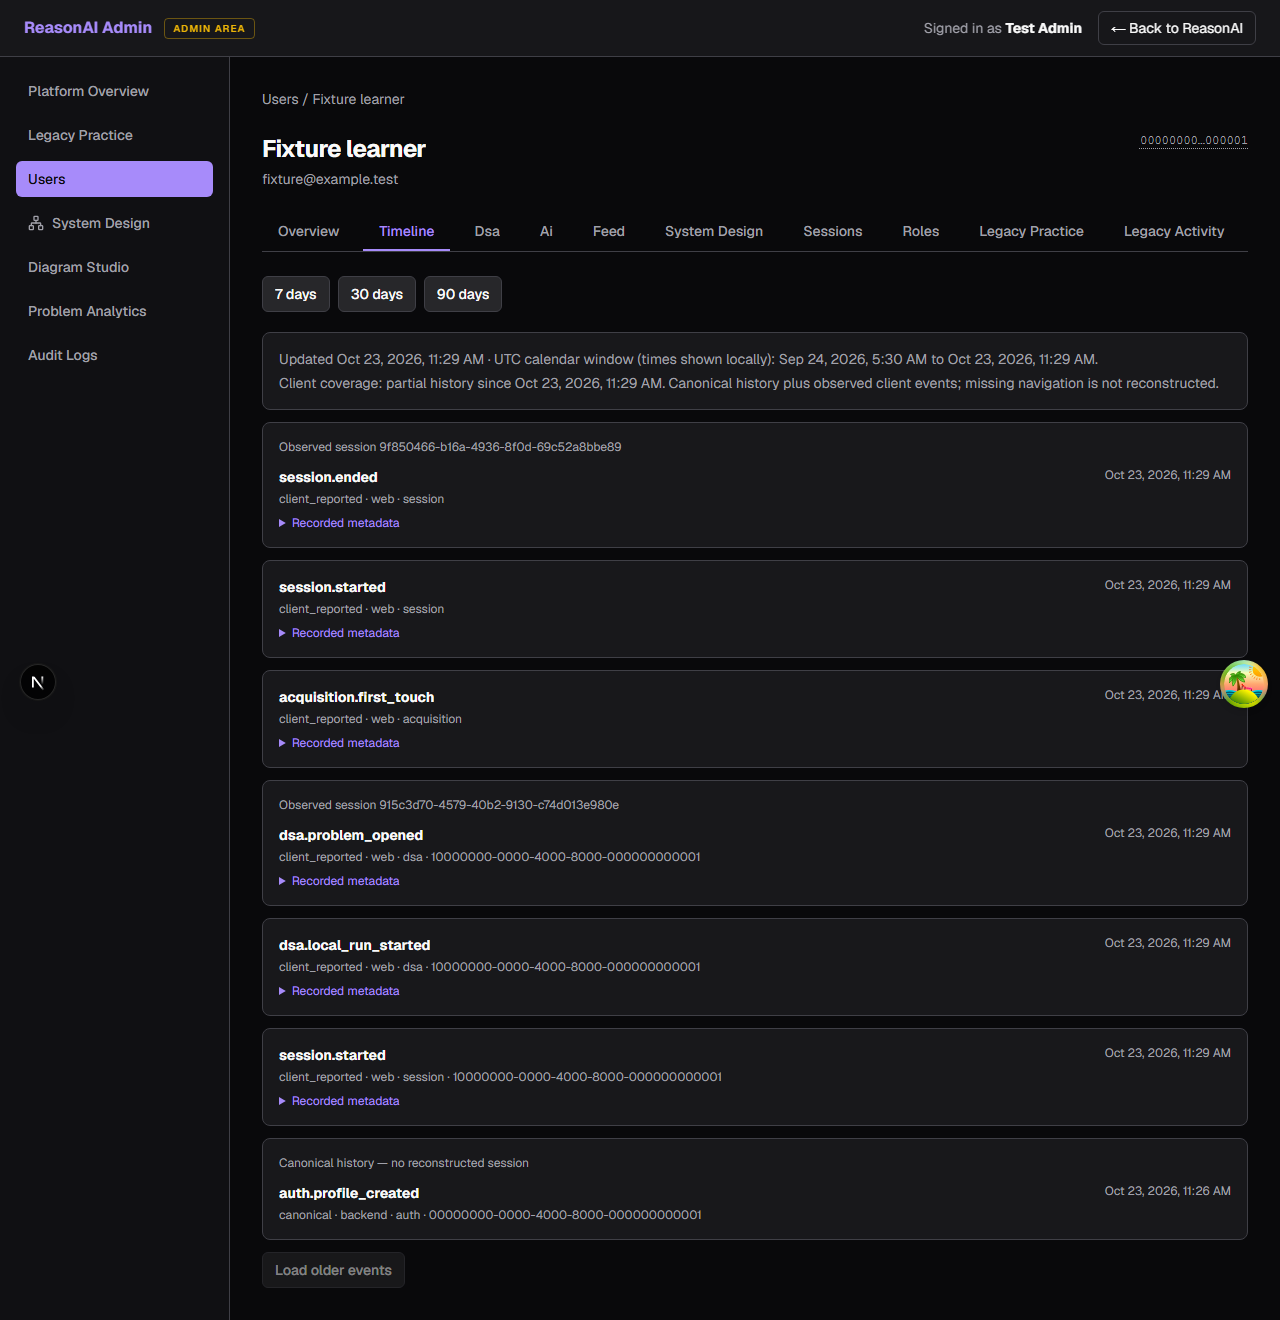
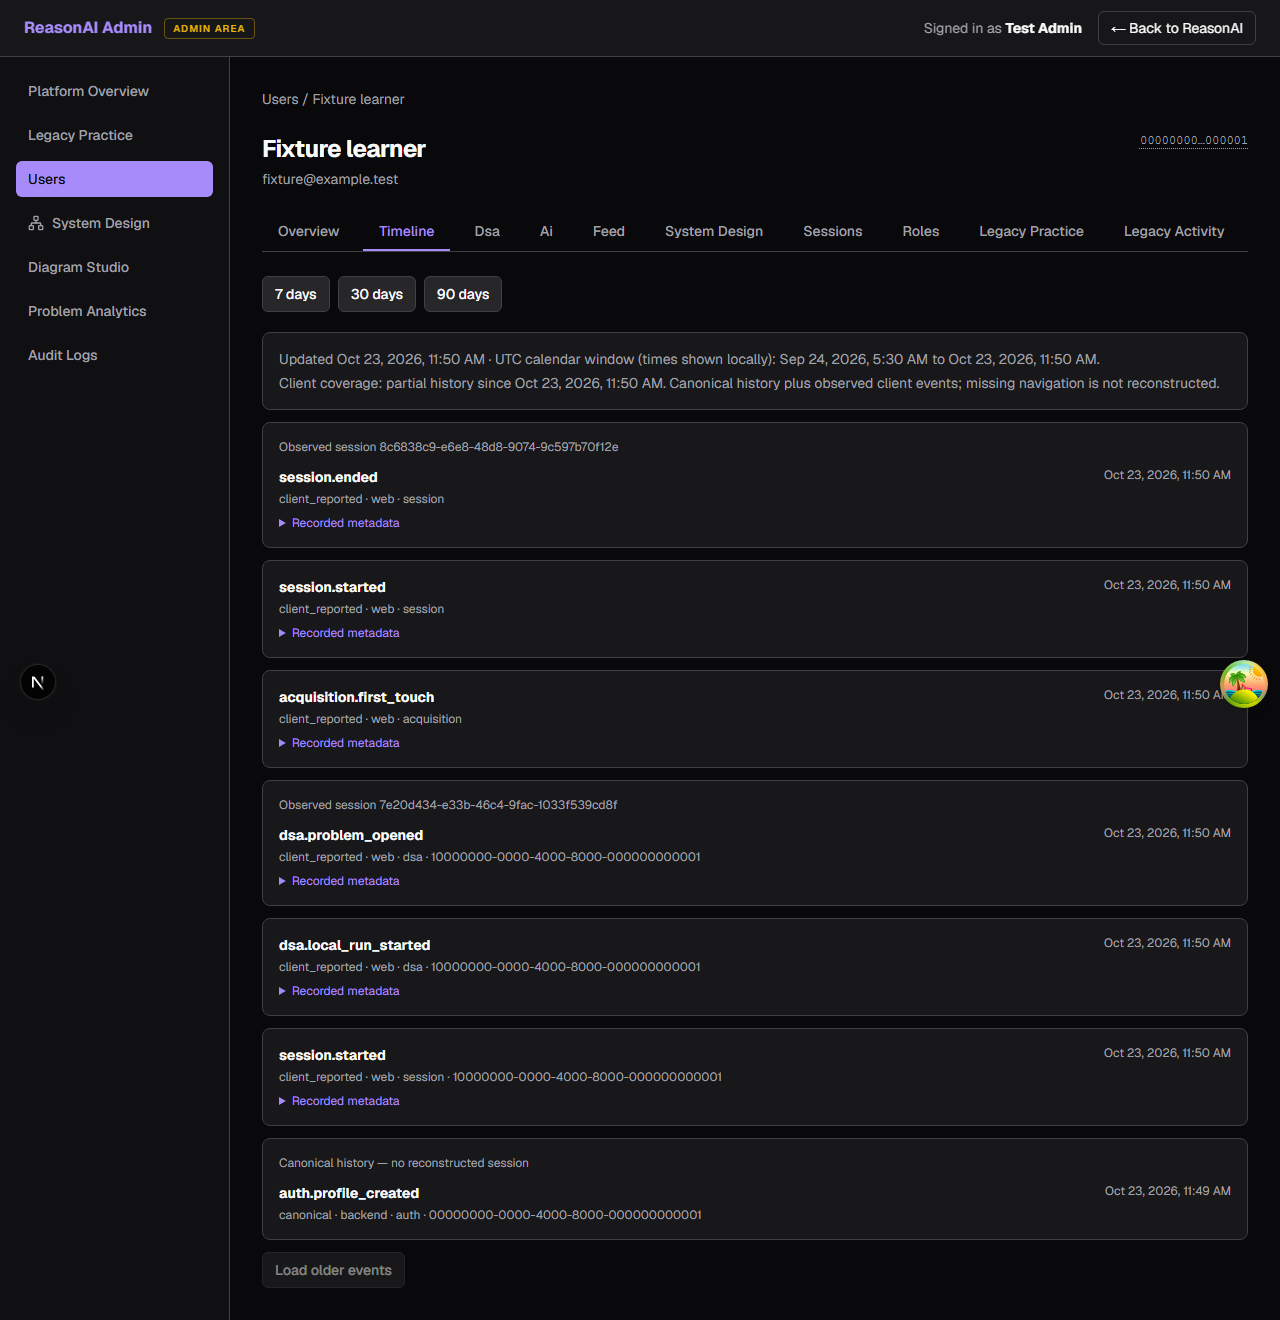
fix(telemetry): preserve merge regressions and report unknown web releases

diff --git a/web/src/lib/telemetry/client.ts b/web/src/lib/telemetry/client.ts
@@ -18,6 +18,11 @@ type WireEvent = {
 const MAX_BUFFER = 200,
   MAX_BYTES = 128 * 1024,
   IDLE_MS = 30 * 60 * 1000;
+const configuredVersion = process.env.NEXT_PUBLIC_APP_VERSION;
+const appVersion =
+  configuredVersion && /^[a-zA-Z0-9_.-]{1,80}$/.test(configuredVersion)
+    ? configuredVersion
+    : "Unknown";
 let owner: string | undefined,
   token: string | undefined,
   queue: WireEvent[] = [];
@@ -160,7 +165,7 @@ export function setTelemetryPreference(value: boolean) {
     journey = crypto.randomUUID();
     lastAction = Date.now();
     append("session.started", {
-      app_version: "2",
+      app_version: appVersion,
       os_family: "web",
       device_class: "unknown",
     });
@@ -217,7 +222,7 @@ export function setTelemetryIdentity(id?: string, accessToken?: string) {
       journey = crypto.randomUUID();
       lastAction = Date.now();
       append("session.started", {
-        app_version: "2",
+        app_version: appVersion,
         os_family: "web",
         device_class: "unknown",
       });
@@ -243,7 +248,7 @@ export function track<N extends EventName>(
       session = crypto.randomUUID();
       journey = crypto.randomUUID();
       append("session.started", {
-        app_version: "2",
+        app_version: appVersion,
         os_family: "web",
         device_class: "unknown",
       });

diff --git a/web/e2e/admin.spec.ts b/web/e2e/admin.spec.ts
@@ -93,7 +93,7 @@ test.describe('Admin user workflows', () => {
     await expect(page.getByText('Not available yet')).toBeVisible();
     await page.getByRole('tab', { name: 'Legacy Activity' }).click();
     await expect(page.getByRole('cell', { name: 'User Signed Up' })).toBeVisible();
-    await expect(page.locator('tbody tr').getByText('â€”')).toHaveCount(7);
+    await expect(page.locator('tbody tr').getByText('—')).toHaveCount(7);
   });
 
   test('confirms role grant once and displays final-admin conflict', async ({ authenticatedPage: page }) => {
@@ -177,7 +177,8 @@ test.describe('Problems and audit logs', () => {
     await expect.poll(() => requestedOffset).toBe(25);
     await expect(page.getByText('0 registered records matching filter')).toBeVisible();
     await page.getByRole('button', {name:'Previous',exact:true}).click();
-    await expect.poll(() => requestedOffset).toBe(0);
+    // The first page may be served from the query cache without another request.
+    await expect(page.getByText('26 registered records matching filter')).toBeVisible();
     await expect(page.getByRole('button', {name:'Previous',exact:true})).toBeDisabled();
   });
 

diff --git a/docs/admin/PRODUCT_INTELLIGENCE_V2.md b/docs/admin/PRODUCT_INTELLIGENCE_V2.md
@@ -1,6 +1,6 @@
 # REASONAI PRODUCT INTELLIGENCE V2
 
-Local implementation and evidence report, October 22, 2026; cleanup and closeout continued October 23 (client date). Unrelated uncommitted work was preserved. Superseded unused Admin UI was removed at the user's follow-up request. No PR, push, deployment, paid inference, production DDL, backfill mutation or production identity mutation was performed.
+Local implementation and evidence report, October 22, 2026; cleanup and closeout continued October 23 (client date). Unrelated uncommitted work was preserved. Superseded unused Admin UI was removed at the user's follow-up request. No PR, deployment, paid inference, production DDL, backfill mutation or production identity mutation was performed. The user subsequently authorized pulling and pushing source; the post-pull validation is recorded below.
 
 ## 1. Legacy Data Issues Found
 
@@ -121,17 +121,17 @@ The user timeline plan uses the user/time index. No partitioning, materialized a
 
 | Check | Result | Scope |
 |---|---|---|
-| Backend non-integration regressions | 351 passed; 97 integration cases deselected | Authentication/Admin, business logic, privacy and contract regressions |
+| Backend non-integration regressions | 354 passed after pull; 97 integration cases deselected | Authentication/Admin, business logic, privacy and contract regressions |
 | Selected PostgreSQL integration suites | 30 passed | Telemetry, Admin analytics/content/user inspection/Growth/HTTP; actual isolated database and reviewed migration |
-| Admin plus real-pipeline browser suite | 18 passed after cleanup | Fixture auth, disposable PostgreSQL, real collector and Admin rendering; no production login claim |
+| Admin plus real-pipeline browser suite | 19 distinct checks verified after pull: 18 full-run passes + 1 corrected targeted rerun | Fixture auth, disposable PostgreSQL, real collector and Admin rendering; no production login claim |
 | Web types / lint / production build | Passed after cleanup; 39 static pages | Node 22; generated API contract |
 | Flutter | 77 passed; 1 live probe skipped; analysis clean | Full suite; final generated-registry telemetry subset also 3 passed |
 | Go realtime | All packages passed | Go 1.27 Docker toolchain |
 | Existing DSA execution regressions | 37 passed; 6 opt-in live cases skipped | Shared pinned Python harness and execution semantics |
-| AI / System Design state regressions | 525 passed | Existing deterministic provider/state suite; paid provider probes are excluded |
+| AI / System Design state regressions | 519 passed in isolated publication candidate | Existing deterministic provider/state suite; paid provider probes are excluded |
 | Backend static checks | Ruff clean; mypy clean | Telemetry module and supporting scripts/tests |
 
-The official-outcome fixture independently verifies one unique solve, two accepted attempts, five Submits, one server Run, one local Run and a 2/3 acceptance rate. Difficulty/topic metadata and first-accept attempt ordering are checked. A Submit for a different problem cannot convert a DSA Run journey. All 63 client event names are round-tripped. Account classification, retained/deleted-story behavior, server-only AI RPC, journal idempotence, mature cohorts, feature transitions/revisits and observed-session reconciliation are exercised. The benchmark compares its four KPIs against independent SQL, with expected/actual values saved in the artifact. One post-cleanup browser startup timed out before tests; rebuilding the generated development cache resolved it and all 18 tests passed on rerun. The production build completed with its existing local QueueClient region warning. No full 375-problem recertification was performed; certified definitions and judge logic remain unchanged.
+The official-outcome fixture independently verifies one unique solve, two accepted attempts, five Submits, one server Run, one local Run and a 2/3 acceptance rate. Difficulty/topic metadata and first-accept attempt ordering are checked. A Submit for a different problem cannot convert a DSA Run journey. All 63 client event names are round-tripped. Account classification, retained/deleted-story behavior, server-only AI RPC, journal idempotence, mature cohorts, feature transitions/revisits and observed-session reconciliation are exercised. The benchmark compares its four KPIs against independent SQL, with expected/actual values saved in the artifact. One post-cleanup browser startup timed out before tests; rebuilding the generated development cache resolved it and all 18 tests passed on rerun. The production build completed with its existing local QueueClient region warning. After pulling, the isolated candidate passed 354 unit tests, 30 PostgreSQL tests and 519 AI/state tests. The earlier 525-case state run included unrelated draft tests, which remain local. A UTF-8 merge error in a browser assertion was corrected. The final browser run passed 18 cases; the remaining pagination assertion was corrected to allow a cached Previous page, and its targeted rerun passed. Types, lint and production build passed again. Web release attribution now uses optional `NEXT_PUBLIC_APP_VERSION`, defaulting to Unknown instead of a hardcoded version. No full 375-problem recertification was performed; certified definitions and judge logic remain unchanged.
 
 ## 14. Deployment and Migration Gates
 
